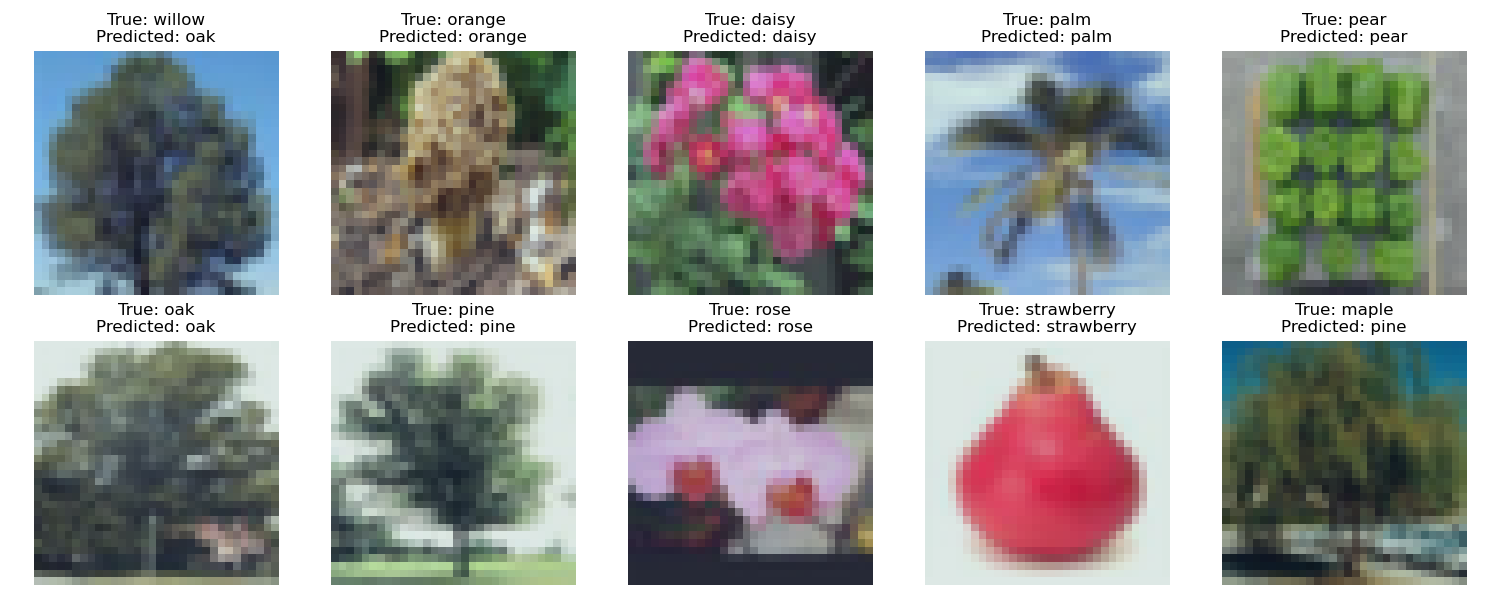
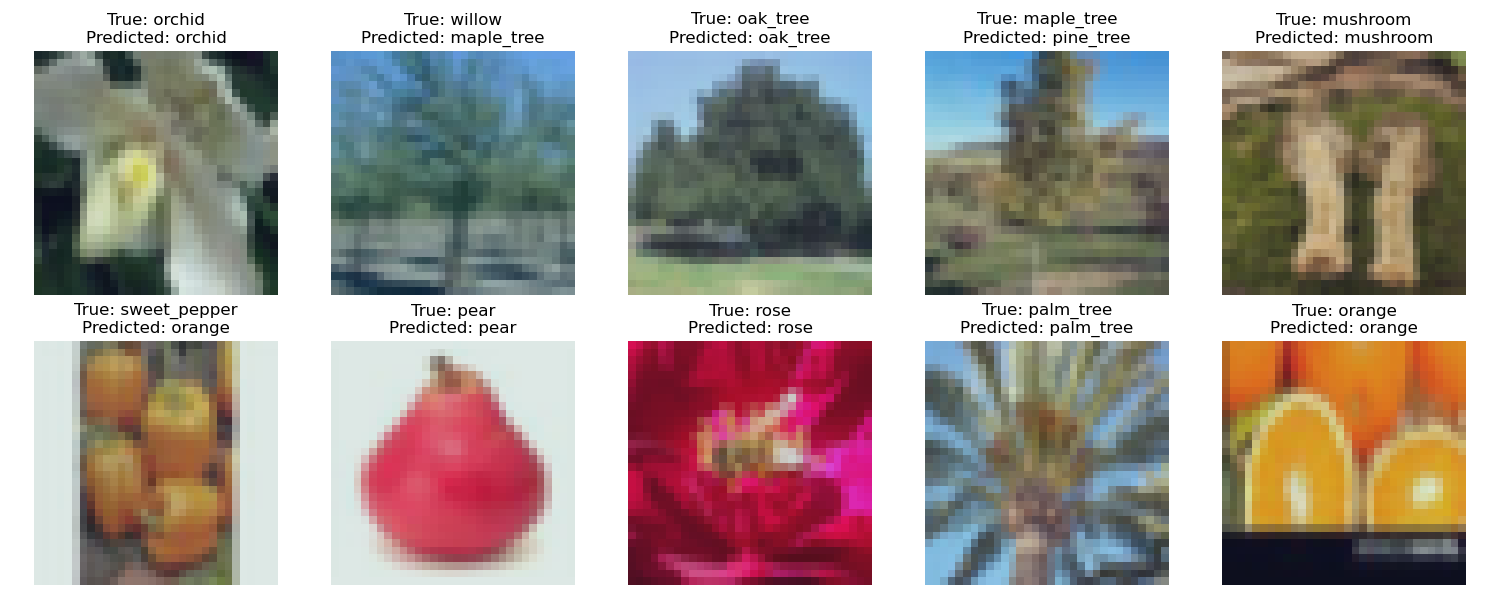
fix the label error and

diff --git a/evaluate_task_a.py b/evaluate_task_a.py
@@ -39,9 +39,9 @@ def load_dataset(batch_size=64):
     
     # We'll collect class info for each model subset
     model_class_names = {
-        1: ["pine", "oak", "palm", "willow", "maple"],  # trees
-        2: ["rose", "tulip", "daisy", "iris", "lily"],  # flowers
-        3: ["apple", "orange", "banana", "strawberry", "pear"]  # fruits/veg
+        1: ["maple_tree", "oak_tree", "palm_tree", "pine_tree", "willow"],  # trees
+        2: ["orchid", "poppy", "rose", "sunflower", "tulip"],  # flowers
+        3: ["apple", "mushroom", "orange", "pear", "sweet_pepper"]  # fruits/veg
     }
     
     # Load and process each dataset
